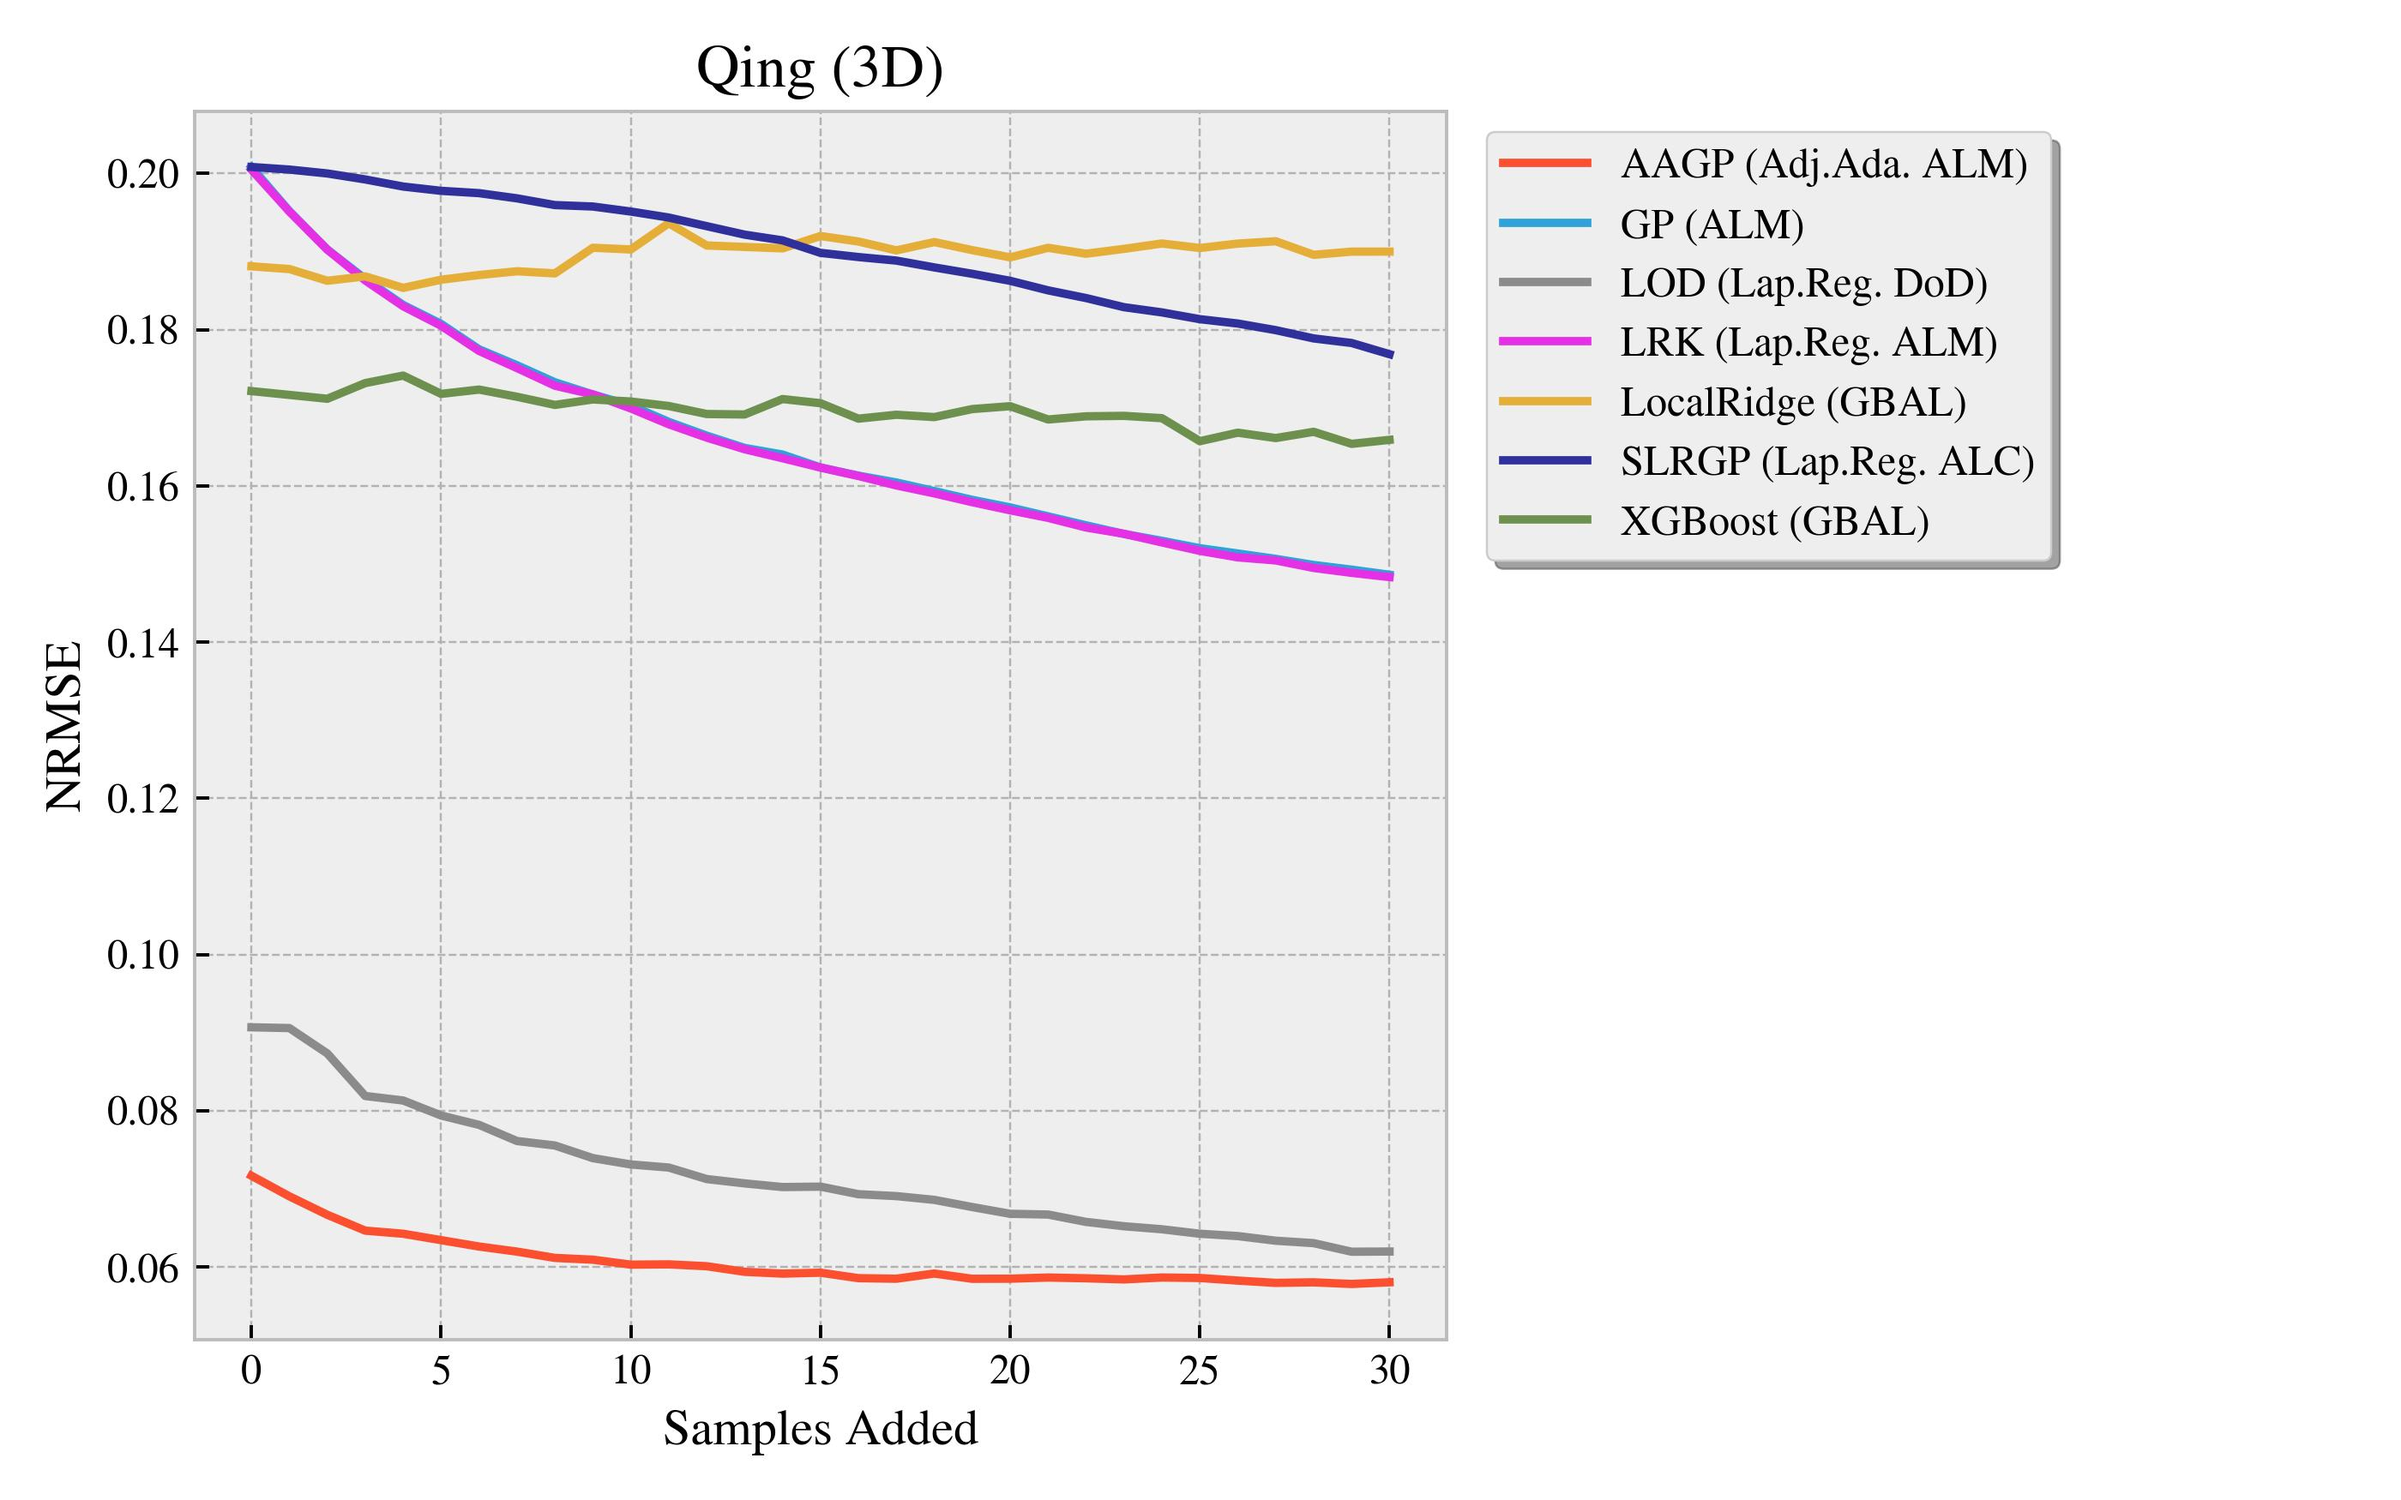
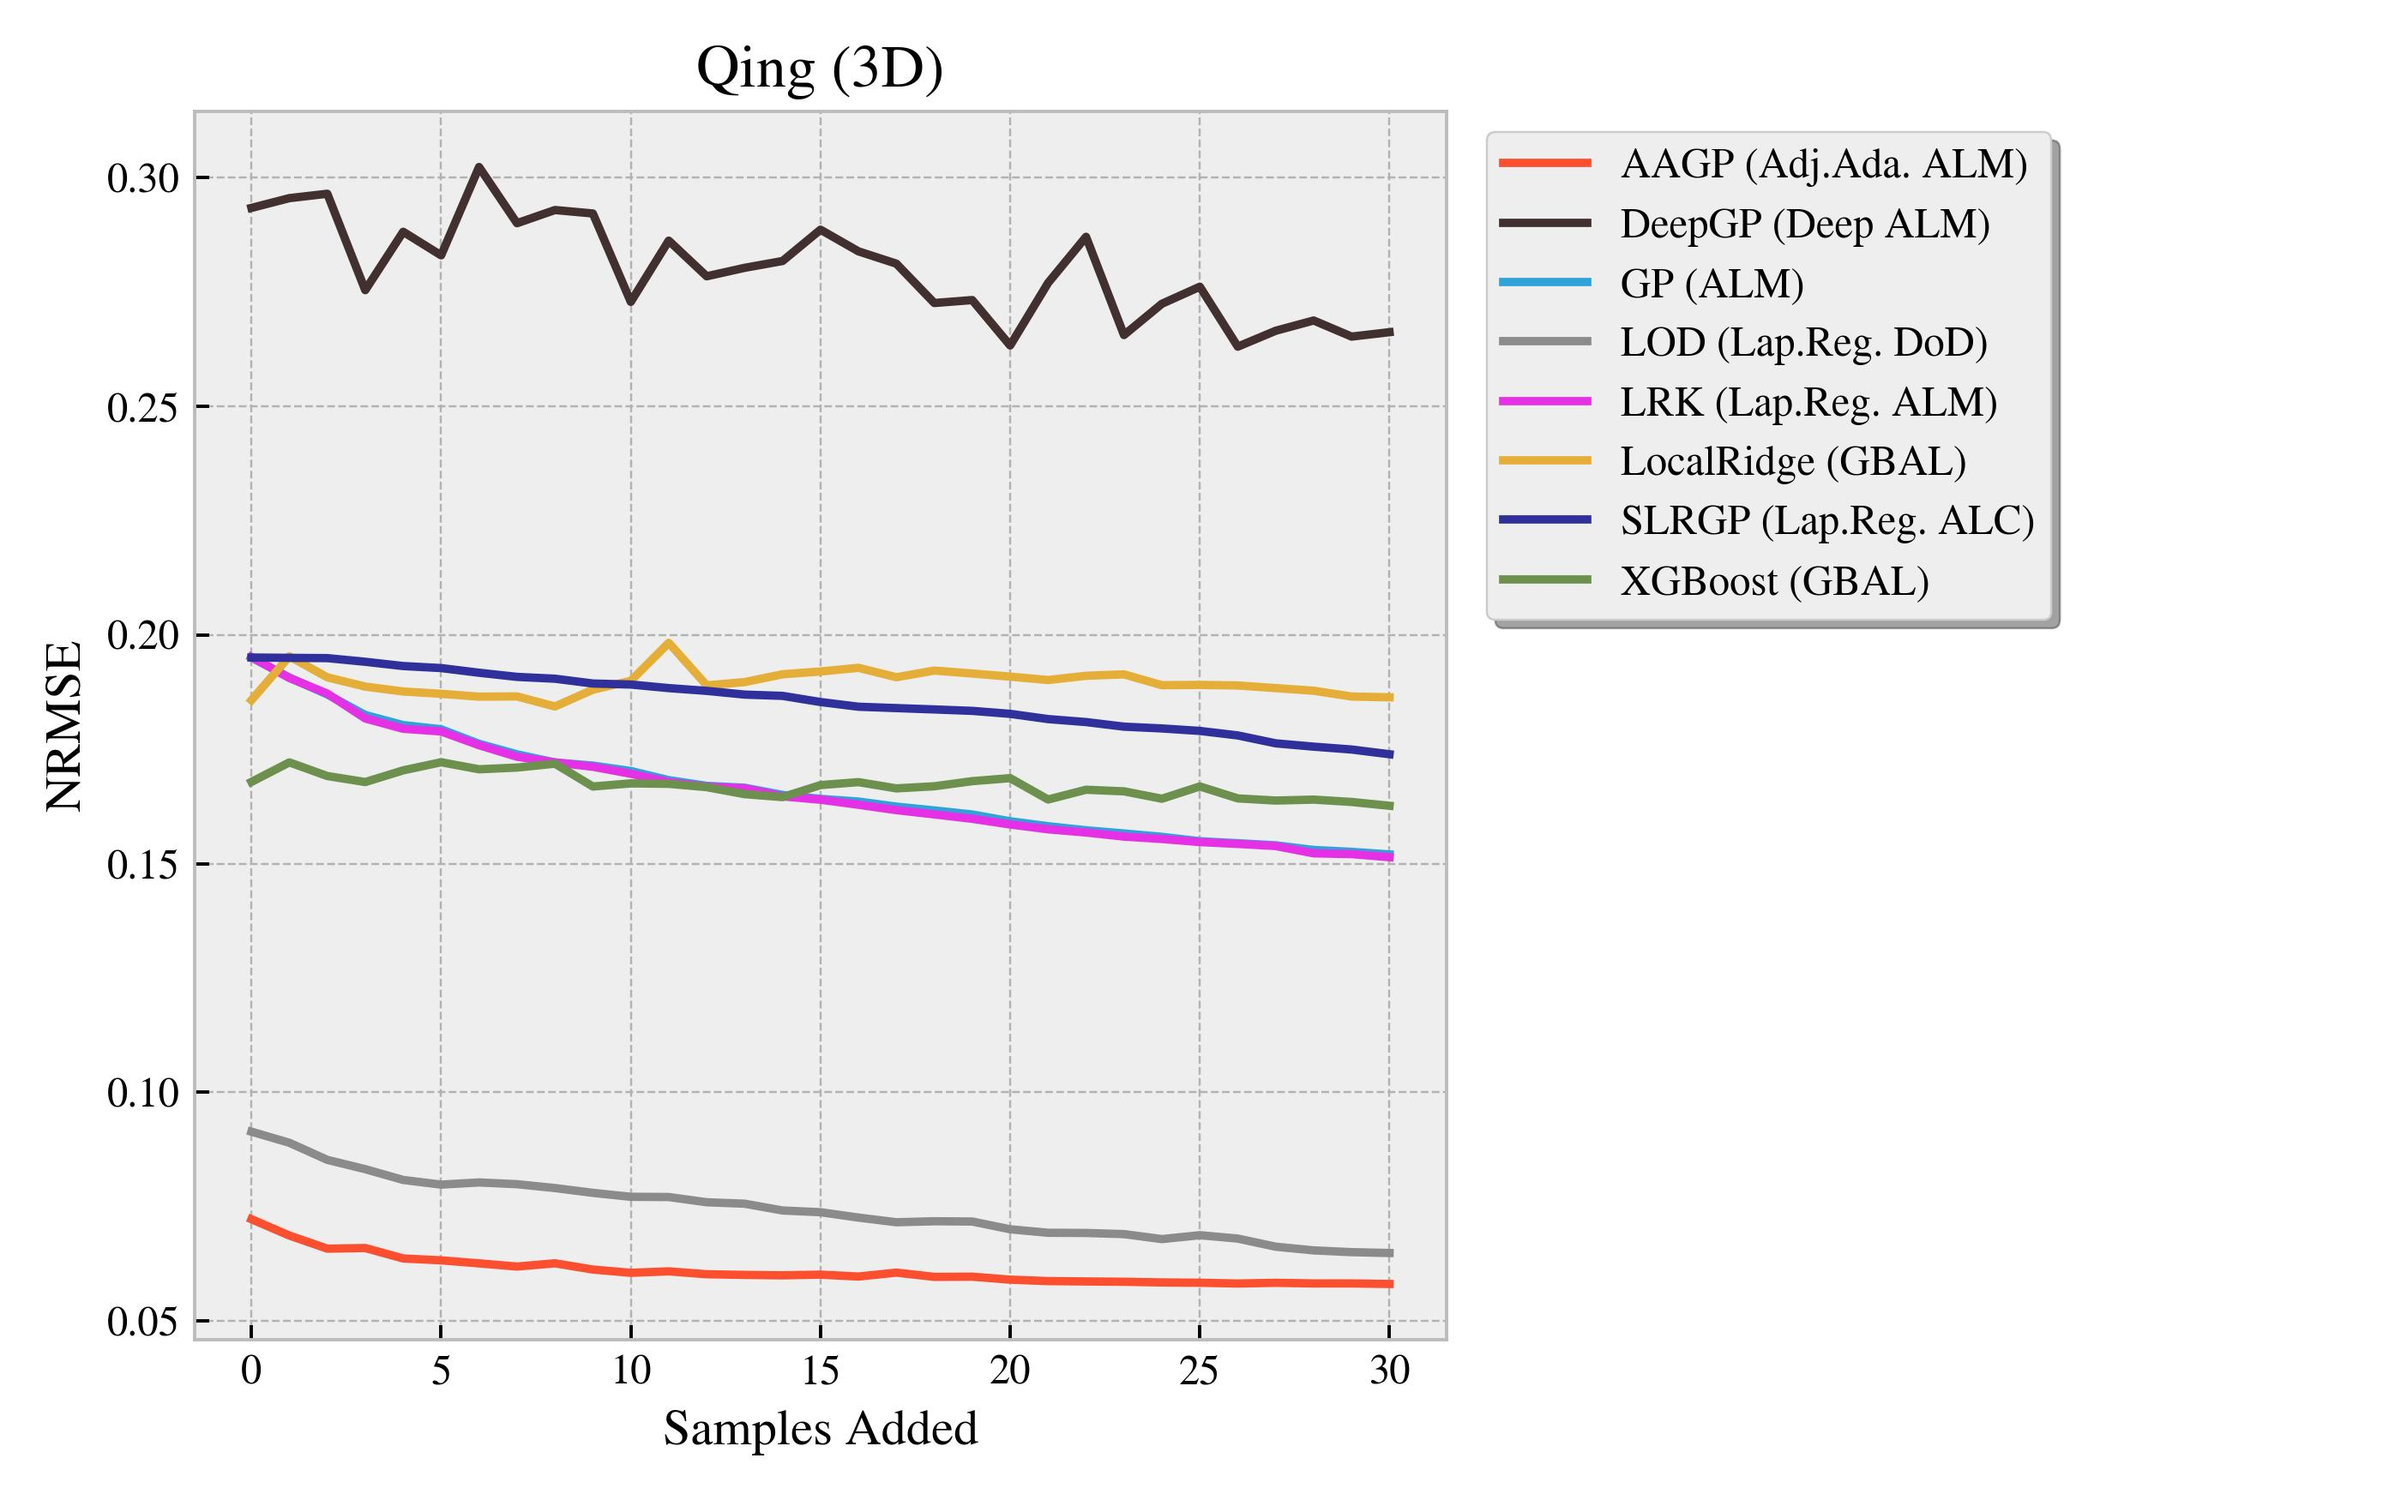
[ aagp-demo ]- uploading code updates

diff --git a/aagp-demo/EXECUTOR.py b/aagp-demo/EXECUTOR.py
@@ -25,53 +25,47 @@ models_2 = [g for g in SETTINGS.models if not g in models_1]
 print('Group 1 models ---> ', models_1)
 print('Group 2 models ---> ', models_2)
 tstart = defTime()
-replicates = SETTINGS.replicates*0+3
-n_jobs = SETTINGS.n_jobs*0-2
-# [3] - run group 1 in parallel
-# ==============================================
-DF_1 = pd.DataFrame()
-if True:
-    DF_1,XA,YA = run_doe(
-                models          = models_1,
+
+# [3] - set up the simulation parameters
+# ========================================
+simulation_parameters = dict(
                 test_function   = SETTINGS.test_function,
                 inits           = SETTINGS.inits,
                 pops            = SETTINGS.pops,
                 noise           = SETTINGS.noise,
                 n_find          = SETTINGS.n_find,
-
-
-                replicates      = replicates,
+                replicates      = SETTINGS.replicates*0+1,
                 parallel        = SETTINGS.parallel,
-                nJobs           = n_jobs,
-                )
+                nJobs           = SETTINGS.n_jobs*0-2,
+)
+
+# [4] - run group 1 in parallel
+# ==============================================
+DF_1 = pd.DataFrame()
+if True:
+    simulation_parameters['models'] = models_1
+    DF_1,XA,YA = run_doe(**simulation_parameters)
+
 tend1 = defTime()
 tend = tend1-tstart
 print('Group 1 completed. Time   : %0.2fs (%0.2fmins, %0.2fhrs)'%(tend,tend/60,tend/3600))
 
-# [4] - run group 2 in series (memory issue)
+# [5] - run group 2 in series (memory issue)
 # ==============================================
+DF_2 = pd.DataFrame()
 if True:
-    DF_2,XA,YA = run_doe(
-                    models          = models_2,
-                    test_function   = SETTINGS.test_function,
-                    inits           = SETTINGS.inits,
-                    pops            = SETTINGS.pops,
-                    noise           = SETTINGS.noise,
-                    n_find          = SETTINGS.n_find,
-
-                    replicates      = replicates,
-                    parallel        = SETTINGS.parallel,
-                    nJobs           = n_jobs,
-                    )
-    DF = pd.concat((DF_1,DF_2),axis=0,ignore_index=True)
-else:
-    DF = DF_1.copy()
+    simulation_parameters['models'] = models_2
+    DF_2,XA,YA = run_doe(**simulation_parameters)
 tend2 = defTime()
 tend = tend2-tend1
 tender = tend2 - tstart
 print('Group 2 completed. Time   : %0.2fs (%0.2fmins, %0.2fhrs)'%(tend,tend/60,tend/3600))
 print('All groups completed. Time: %0.2fs (%0.2fmins, %0.2fhrs)'%(tender,tender/60,tender/3600))
 
+
+# [6] - Concatenate the results, visualize, and output
+# ======================================================
+DF = pd.concat((DF_1,DF_2),axis=0,ignore_index=True)
 DF['Model'] = DF['Model'].replace(to_replace=SETTINGS.renames)
 agg = DF.groupby(['Model','Samples Added']).agg({'NRMSE':'mean'}).reset_index()
 fig = plt.figure(figsize=(8,5),dpi=350)

diff --git a/aagp-demo/SETTINGS.py b/aagp-demo/SETTINGS.py
@@ -47,7 +47,7 @@ def install_packages():
 
 
 
-deepGP_maxIters = 200
+deepGP_maxIters = 2000
 inits           = [4,8,10]
 pops            = [200,350,500]
 n_find          = 30
